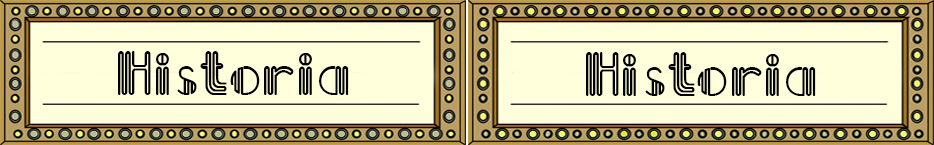
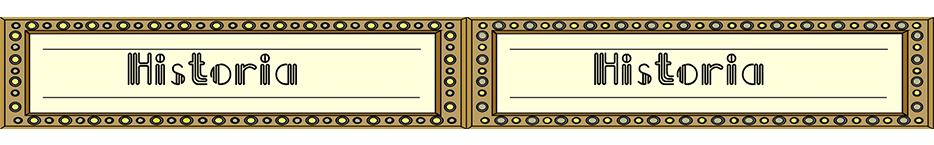
Múltiple solución de problemas de Foquin
Arreglo de algunos sprites
arreglo de algunos problemas de mecánica
luces de plataformas

diff --git a/app/src/main/java/mx/itesm/foquinrun/EscenaJuego.java b/app/src/main/java/mx/itesm/foquinrun/EscenaJuego.java
@@ -57,6 +57,7 @@ public class EscenaJuego extends EscenaBase {
     private Sprite spritePlataformaEntrada;
 
 
+
     private ITextureRegion regionBtnPausa;
     private final int OPCION_BTN_PAUSA=0;
     private MenuScene menu;
@@ -78,12 +79,9 @@ public class EscenaJuego extends EscenaBase {
     private boolean foquinCae2=true;
     private boolean foquinCae3=true;
     private int contadorcolision=0;
-    private int color=0;
     private int vidaFoquin=1;
     private boolean pausa=false;
 
-    private boolean collionMonoPla=false;
-    private boolean plataformaSale=false;
 
     private int contadorTiempo=0;
 
@@ -116,6 +114,8 @@ public class EscenaJuego extends EscenaBase {
 
         regionBtnPausa= cargarImagen("EscenaJuego/Botones/BotonPausa.png");
         regionPantallaPausa= cargarImagen("EsenaPausa/fondo_pausa.png");
+
+
 
 
     }
@@ -332,6 +332,8 @@ public class EscenaJuego extends EscenaBase {
     protected void onManagedUpdate(float pSecondsElapsed) {
         super.onManagedUpdate(pSecondsElapsed);
 
+        contadorTiempo=contadorTiempo+1;
+
             spritePlataformaEntrada.setPosition(spritePlataformaEntrada.getX() - 5, spritePlataformaEntrada.getY());
 
         if (spriteFoquin.collidesWith(spritePlataformaEntrada)) {
@@ -358,6 +360,7 @@ public class EscenaJuego extends EscenaBase {
                 Plataforma nuevoPlataformaRoja = new Plataforma();
                 nuevoPlataformaRoja.setSprite(spritePlataformaRoja);
                 nuevoPlataformaRoja.setColor(1);
+                nuevoPlataformaRoja.getSpritePlataforma().setColor(0.4f,0f,0f);
                 listaPlataformas.add(nuevoPlataformaRoja);
                 attachChild(nuevoPlataformaRoja.getSpritePlataforma());
 
@@ -369,6 +372,7 @@ public class EscenaJuego extends EscenaBase {
                 Plataforma nuevoPlataformaVerde = new Plataforma();
                 nuevoPlataformaVerde.setSprite(spritePlataformaVerde);
                 nuevoPlataformaVerde.setColor(2);
+                nuevoPlataformaVerde.getSpritePlataforma().setColor(0f, 0.4f, 0f);
                 listaPlataformas.add(nuevoPlataformaVerde);
                 attachChild(nuevoPlataformaVerde.getSpritePlataforma());
 
@@ -380,6 +384,7 @@ public class EscenaJuego extends EscenaBase {
                 Plataforma nuevoPlataformaAzul = new Plataforma();
                 nuevoPlataformaAzul.setSprite(spritePlataformaAzul);
                 nuevoPlataformaAzul.setColor(3);
+                nuevoPlataformaAzul.getSpritePlataforma().setColor(0f,0f,0.4f);
                 listaPlataformas.add(nuevoPlataformaAzul);
                 attachChild(nuevoPlataformaAzul.getSpritePlataforma());
 
@@ -411,31 +416,33 @@ public class EscenaJuego extends EscenaBase {
 
             if (spriteFoquin.collidesWith(plataforma.getSpritePlataforma()) &&
                     spriteFoquinRojo.getAlpha() == 1 && plataforma.getColor() == 2) {
-                color = 1;
+                vidaFoquin--;
             }
             if (spriteFoquin.collidesWith(plataforma.getSpritePlataforma()) &&
                     spriteFoquinRojo.getAlpha() == 1 && plataforma.getColor() == 3) {
-                color = 1;
+                vidaFoquin--;
             }
-
 
             if (spriteFoquin.collidesWith(plataforma.getSpritePlataforma()) &&
                     spriteFoquinVerde.getAlpha() == 1 && plataforma.getColor() == 1) {
-                color = 2;
+                vidaFoquin--;
             }
             if (spriteFoquin.collidesWith(plataforma.getSpritePlataforma()) &&
                     spriteFoquinVerde.getAlpha() == 1 && plataforma.getColor() == 3) {
-                color = 2;
+                vidaFoquin--;
             }
 
 
             if (spriteFoquin.collidesWith(plataforma.getSpritePlataforma()) &&
                     spriteFoquinAzul.getAlpha() == 1 && plataforma.getColor() == 1) {
-                color = 3;
+                vidaFoquin--;
             }
             if (spriteFoquin.collidesWith(plataforma.getSpritePlataforma()) &&
                     spriteFoquinAzul.getAlpha() == 1 && plataforma.getColor() == 2) {
-                color = 3;
+                vidaFoquin--;
+            }
+            if(spriteFoquin.collidesWith(plataforma.getSpritePlataforma())){
+                plataforma.getSpritePlataforma().setColor(1f,1f,1f);
             }
 
             if (plataforma.getSpritePlataforma().getX() < -plataforma.getSpritePlataforma().getWidth()) {
@@ -451,15 +458,6 @@ public class EscenaJuego extends EscenaBase {
             spriteFoquinVerde.setPosition(spriteFoquinVerde.getX(), spriteFoquinVerde.getY() - 12);
             spriteFoquinAzul.setPosition(spriteFoquinAzul.getX(), spriteFoquinAzul.getY() - 12);
         }
-        if (color == 1) {
-            vidaFoquin--;
-        }
-        if (color == 2) {
-            vidaFoquin--;
-        }
-        if (color == 3) {
-            vidaFoquin--;
-        }
 
         //si la vida de foquin es 0 pierdes
         if (vidaFoquin == 0) {
@@ -469,6 +467,10 @@ public class EscenaJuego extends EscenaBase {
             spriteFoquinRojo.setAlpha(0);
             spriteFoquinVerde.setAlpha(0);
             spriteFoquinAzul.setAlpha(0);
+            spriteFoquin.setPosition(-300, -300);
+            spriteFoquinRojo.setPosition(-300,-300);
+            spriteFoquinVerde.setPosition(-300,-300);
+            spriteFoquinAzul.setPosition(-300,-300);
         }
         if (spriteFoquin.getY() < 50) {
             spritePantallaPerdiste.setAlpha(1);

diff --git a/app/src/main/java/mx/itesm/foquinrun/Pantalla.java b/app/src/main/java/mx/itesm/foquinrun/Pantalla.java
@@ -1,11 +1,26 @@
 package mx.itesm.foquinrun;
 
+import android.view.Menu;
+import android.widget.Switch;
+
+import org.andengine.entity.IEntity;
+import org.andengine.entity.modifier.JumpModifier;
+import org.andengine.entity.scene.background.AutoParallaxBackground;
+import org.andengine.entity.scene.background.ParallaxBackground;
 import org.andengine.entity.scene.menu.MenuScene;
 import org.andengine.entity.scene.menu.item.IMenuItem;
 import org.andengine.entity.scene.menu.item.SpriteMenuItem;
 import org.andengine.entity.scene.menu.item.decorator.ScaleMenuItemDecorator;
+import org.andengine.entity.sprite.AnimatedSprite;
+import org.andengine.entity.sprite.ButtonSprite;
 import org.andengine.entity.sprite.Sprite;
+import org.andengine.input.touch.TouchEvent;
+import org.andengine.opengl.texture.ITexture;
 import org.andengine.opengl.texture.region.ITextureRegion;
+import org.andengine.opengl.texture.region.TiledTextureRegion;
+
+
+import java.util.ArrayList;
 
 
 public class Pantalla extends EscenaBase {
@@ -13,6 +28,21 @@ public class Pantalla extends EscenaBase {
 
     private ITextureRegion regionFondo;
     private Sprite spriteFondo;
+    private ITextureRegion regionFondoMedio;
+    private Sprite spriteFondoMedio;
+    private ITextureRegion regionFondoFrente;
+    private Sprite spriteFondoFrente;
+
+    private ITextureRegion regionLuzMedio;
+    private Sprite spriteLuzMedio;
+    private ITextureRegion regionLuzFrente;
+    private Sprite spriteLuzFrente;
+
+    private TiledTextureRegion regionPersonajes;
+    private AnimatedSprite spritePersonajes;
+
+    private AnimatedSprite spriteFoquin;
+    private TiledTextureRegion regionFoquin;
 
     private ITextureRegion regionBtnJugar;
     private ITextureRegion regionBtnSonido;
@@ -30,25 +60,60 @@ public class Pantalla extends EscenaBase {
     @Override
     public void cargarRecursos() {
 
-        regionFondo= cargarImagen("MenuFondo.png");
+        regionFondo= cargarImagen("EscenaJuego/Fondos/cielo 3.png");
+        regionFondoMedio= cargarImagen("EscenaJuego/Fondos/edificio_atras_1.png");
+        regionFondoFrente= cargarImagen("EscenaJuego/Fondos/escenario_frente_1.png");
 
-        regionBtnJugar = cargarImagen("boton.png");
+        regionLuzMedio=cargarImagen("EscenaAcercaDe/Luces/1escenarioAtras_11.png");
+        regionLuzFrente=cargarImagen("EscenaAcercaDe/Luces/1escenariofrente_9.png");
+
+        regionBtnJugar = cargarImagen("Pantalla/Play.png");
 
         regionBtnSonido=cargarImagen("Pantalla/Sonido.png");
         reguionBtnMusica=cargarImagen("Pantalla/Musica.png");
 
         regionMundo= cargarImagen("Pantalla/mundo.png");
+
+        regionPersonajes= cargarImagenMosaico("Pantalla/Personajes.png", 895, 107, 1, 2);
+
+        regionFoquin= cargarImagenMosaico("EscenaJuego/foquin.png", 1000, 280, 1, 5);
     }
 
 
     @Override
     public void crearEscena() {
         spriteFondo = cargarSprite(ControlJuego.ANCHO_CAMARA/2, ControlJuego.ALTO_CAMARA/2, regionFondo);
+        spriteFondoMedio = cargarSprite(ControlJuego.ANCHO_CAMARA/2, ControlJuego.ALTO_CAMARA/2+100, regionFondoMedio);
+        spriteFondoFrente = cargarSprite(ControlJuego.ANCHO_CAMARA/2, ControlJuego.ALTO_CAMARA/2-70, regionFondoFrente);
+
+        spriteLuzMedio=cargarSprite(ControlJuego.ALTO_CAMARA/2+240, ControlJuego.ALTO_CAMARA/2+100, regionLuzMedio);
+        spriteLuzFrente=cargarSprite(ControlJuego.ALTO_CAMARA/2, ControlJuego.ALTO_CAMARA/2-70, regionLuzFrente);
+
+
         attachChild(spriteFondo);
+        attachChild(spriteFondoMedio);
+        attachChild(spriteLuzMedio);
+        attachChild(spriteFondoFrente);
+
 
         spriteMundo=cargarSprite(ControlJuego.ALTO_CAMARA/2+600, ControlJuego.ALTO_CAMARA/2, regionMundo);
         attachChild(spriteMundo);
         spriteMundo.setScale(2);
+
+        spritePersonajes = new AnimatedSprite(ControlJuego.ALTO_CAMARA / 2,
+                ControlJuego.ALTO_CAMARA / 2, regionPersonajes,
+                actividadJuego.getVertexBufferObjectManager());
+        spritePersonajes.animate(250);
+        attachChild(spritePersonajes);
+        spritePersonajes.setPosition(350, 600);
+
+        spriteFoquin = new AnimatedSprite(ControlJuego.ALTO_CAMARA / 2,
+                ControlJuego.ALTO_CAMARA / 2, regionFoquin,
+                actividadJuego.getVertexBufferObjectManager());
+        spriteFoquin.animate(100);
+        attachChild(spriteFoquin);
+        spriteFoquin.setPosition(350, 300);
+
 
         agregarMenu();
     }
@@ -71,10 +136,10 @@ public class Pantalla extends EscenaBase {
         menu.buildAnimations();
         menu.setBackgroundEnabled(false);
 
-        opcionJugar.setPosition(-300, -200);
+        opcionJugar.setPosition(-300, -350);
 
-        opcionSonido.setPosition(-550,360);
-        opcionMusica.setPosition(-460,360);
+        opcionSonido.setPosition(-550, 360);
+        opcionMusica.setPosition(-460, 360);
 
 
         menu.setOnMenuItemClickListener(new MenuScene.IOnMenuItemClickListener() {
@@ -106,7 +171,11 @@ public class Pantalla extends EscenaBase {
         });
         setChildScene(menu);
     }
+    @Override
+    protected void onManagedUpdate(float pSecondsElapsed) {
+        super.onManagedUpdate(pSecondsElapsed);
 
+    }
     @Override
     public void onBackKeyPressed() {
         // Regresar al menú principal

diff --git a/app/src/main/java/mx/itesm/foquinrun/EscenaAcercaDe.java b/app/src/main/java/mx/itesm/foquinrun/EscenaAcercaDe.java
@@ -49,17 +49,17 @@ public class EscenaAcercaDe extends EscenaBase
 
     @Override
     public void cargarRecursos() {
-        regionFondo = cargarImagen("EscenaJuego/Fondos/cielo 2.png");
-        regionFondoMedio= cargarImagen("EscenaJuego/Fondos/edificio_atras_1.png");
-        regionFondoFrente= cargarImagen("EscenaJuego/Fondos/escenario_frente_1.png");
-        regionFondoMedioLuz=cargarImagen("EscenaAcercaDe/Luces/1escenarioAtras_11.png");
-        regionFondoFrenteLuz=cargarImagen("EscenaAcercaDe/Luces/1escenariofrente_9.png");
+        regionFondo = cargarImagen("EscenaJuego/Fondos/cielo completo.png");
+        regionFondoMedio= cargarImagen("EscenaJuego/Fondos/medio completo.png");
+        regionFondoFrente= cargarImagen("EscenaJuego/Fondos/frente completo.png");
+        regionFondoMedioLuz=cargarImagen("EscenaJuego/Fondos/Luces/Atras/30 2.png");
+        regionFondoFrenteLuz=cargarImagen("EscenaJuego/Fondos/Luces/30.png");
 
         regionHistoria= cargarImagen("EscenaAcercaDe/boton.png");
         regionCreditos = cargarImagen("EscenaAcercaDe/boton.png");
 
-        regionBtnCreditos= cargarImagenMosaico("EscenaAcercaDe/creditos.png", 934, 145, 1, 2);
-        regionBtnHistoria= cargarImagenMosaico("EscenaAcercaDe/Historia.png", 934, 145, 1, 2);
+        regionBtnCreditos= cargarImagenMosaico("EscenaAcercaDe/Creditos.png", 1790, 214, 1, 2);
+        regionBtnHistoria= cargarImagenMosaico("EscenaAcercaDe/Historia.png", 1790, 214, 1, 2);
 
         regionLuna=cargarImagen("boton.png");
     }
@@ -99,7 +99,7 @@ public class EscenaAcercaDe extends EscenaBase
         spriteCreditos.setPosition(640, 100);
 
 
-        spriteLuna=cargarSprite(ControlJuego.ANCHO_CAMARA/2+1200,ControlJuego.ALTO_CAMARA/2+300, regionLuna);
+        spriteLuna=cargarSprite(ControlJuego.ANCHO_CAMARA/2+1500,ControlJuego.ALTO_CAMARA/2+300, regionLuna);
         attachChild(spriteLuna);
 
 

diff --git a/app/src/main/java/mx/itesm/foquinrun/Creditos.java b/app/src/main/java/mx/itesm/foquinrun/Creditos.java
@@ -18,7 +18,7 @@ public class Creditos extends EscenaBase {
 
     @Override
     public void cargarRecursos() {
-        regionFondo = cargarImagen("Prueba/Creditos.png");
+        regionFondo = cargarImagen("Creditos/CREDITOS.png");
 
     }
 

diff --git a/app/src/main/java/mx/itesm/foquinrun/Plataforma.java b/app/src/main/java/mx/itesm/foquinrun/Plataforma.java
@@ -30,4 +30,5 @@ public class Plataforma {
         this.color= colorPlataforma;
     }
 
+
 }
